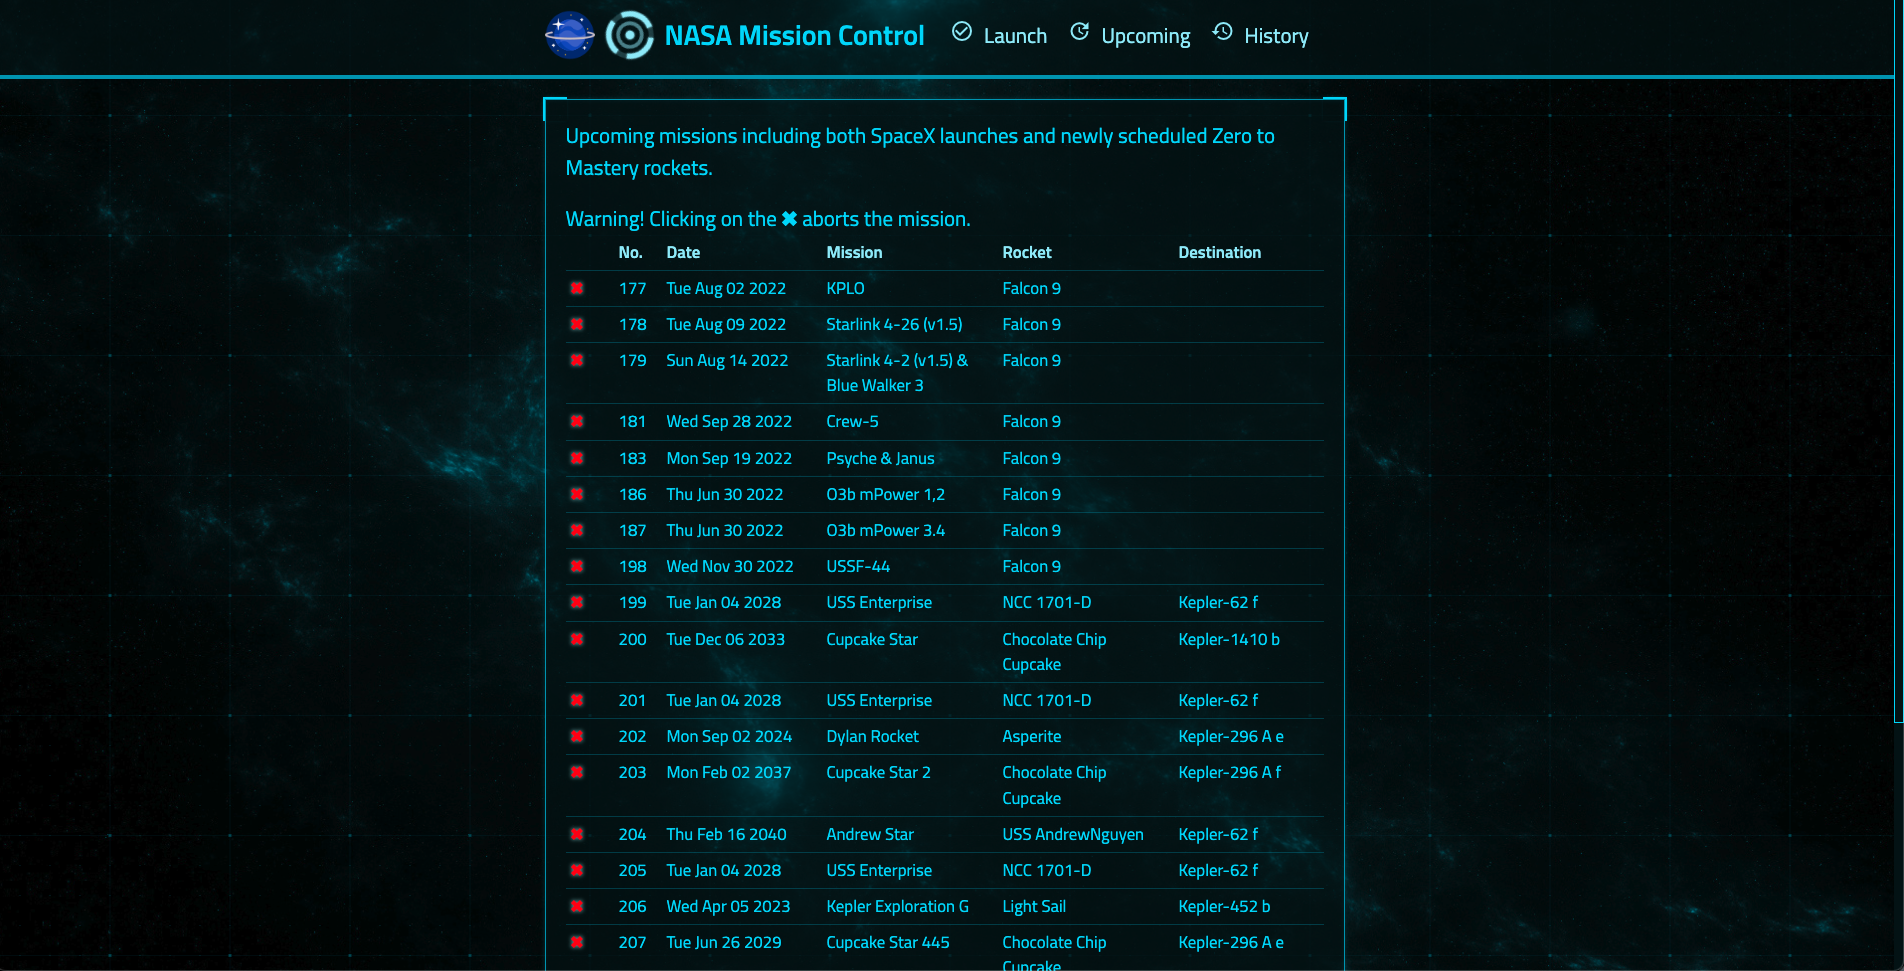
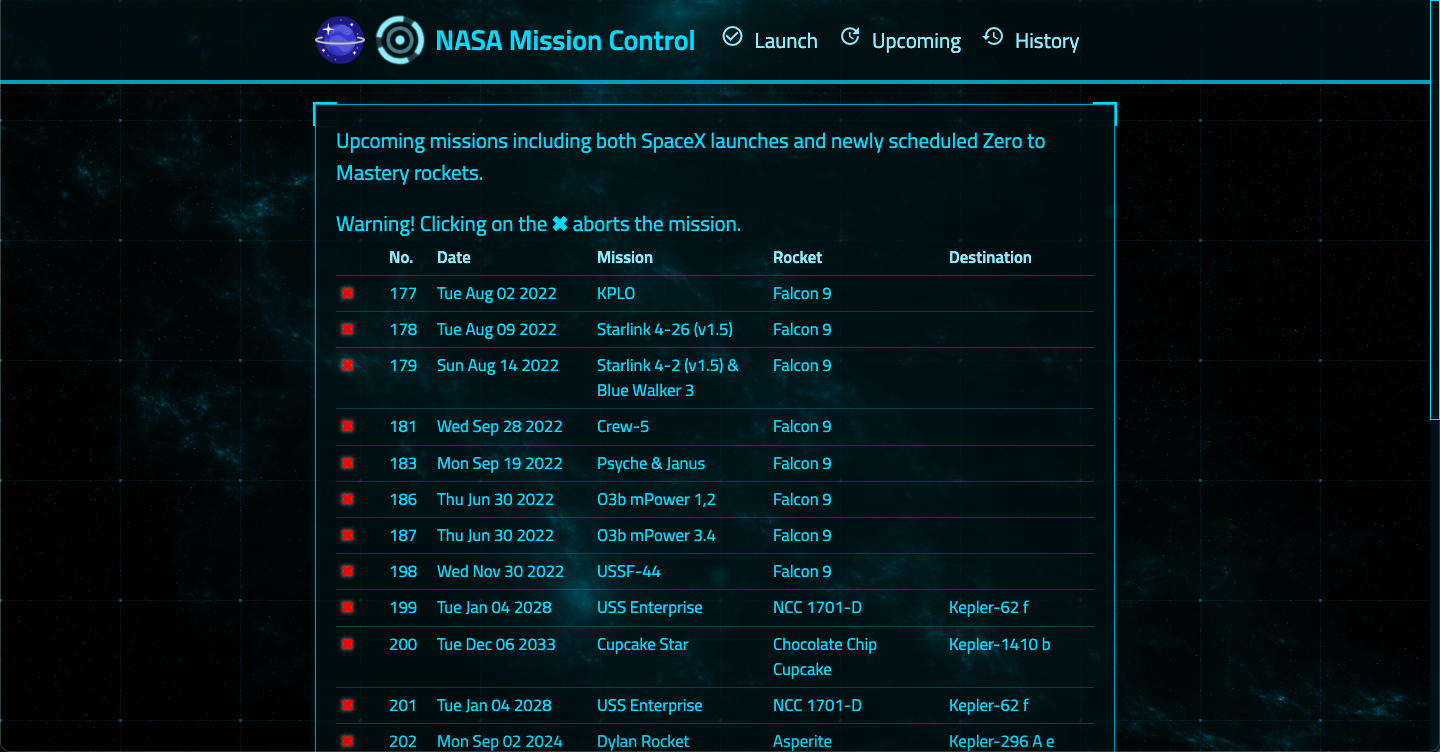
pushing upcoming launch image to readme

diff --git a/README.md b/README.md
@@ -12,7 +12,7 @@ Full stack NASA space launch application that not only stores historical SpaceX 
 + Stores aborted simulated lauches in the History section
 + Takes in real-life NASA data to determine habitable planets 
 
-![](Upcoming-Launches.png)
+![](upcoming-launches.png)
 
 Prerequisite
 + Node v16.16.0
